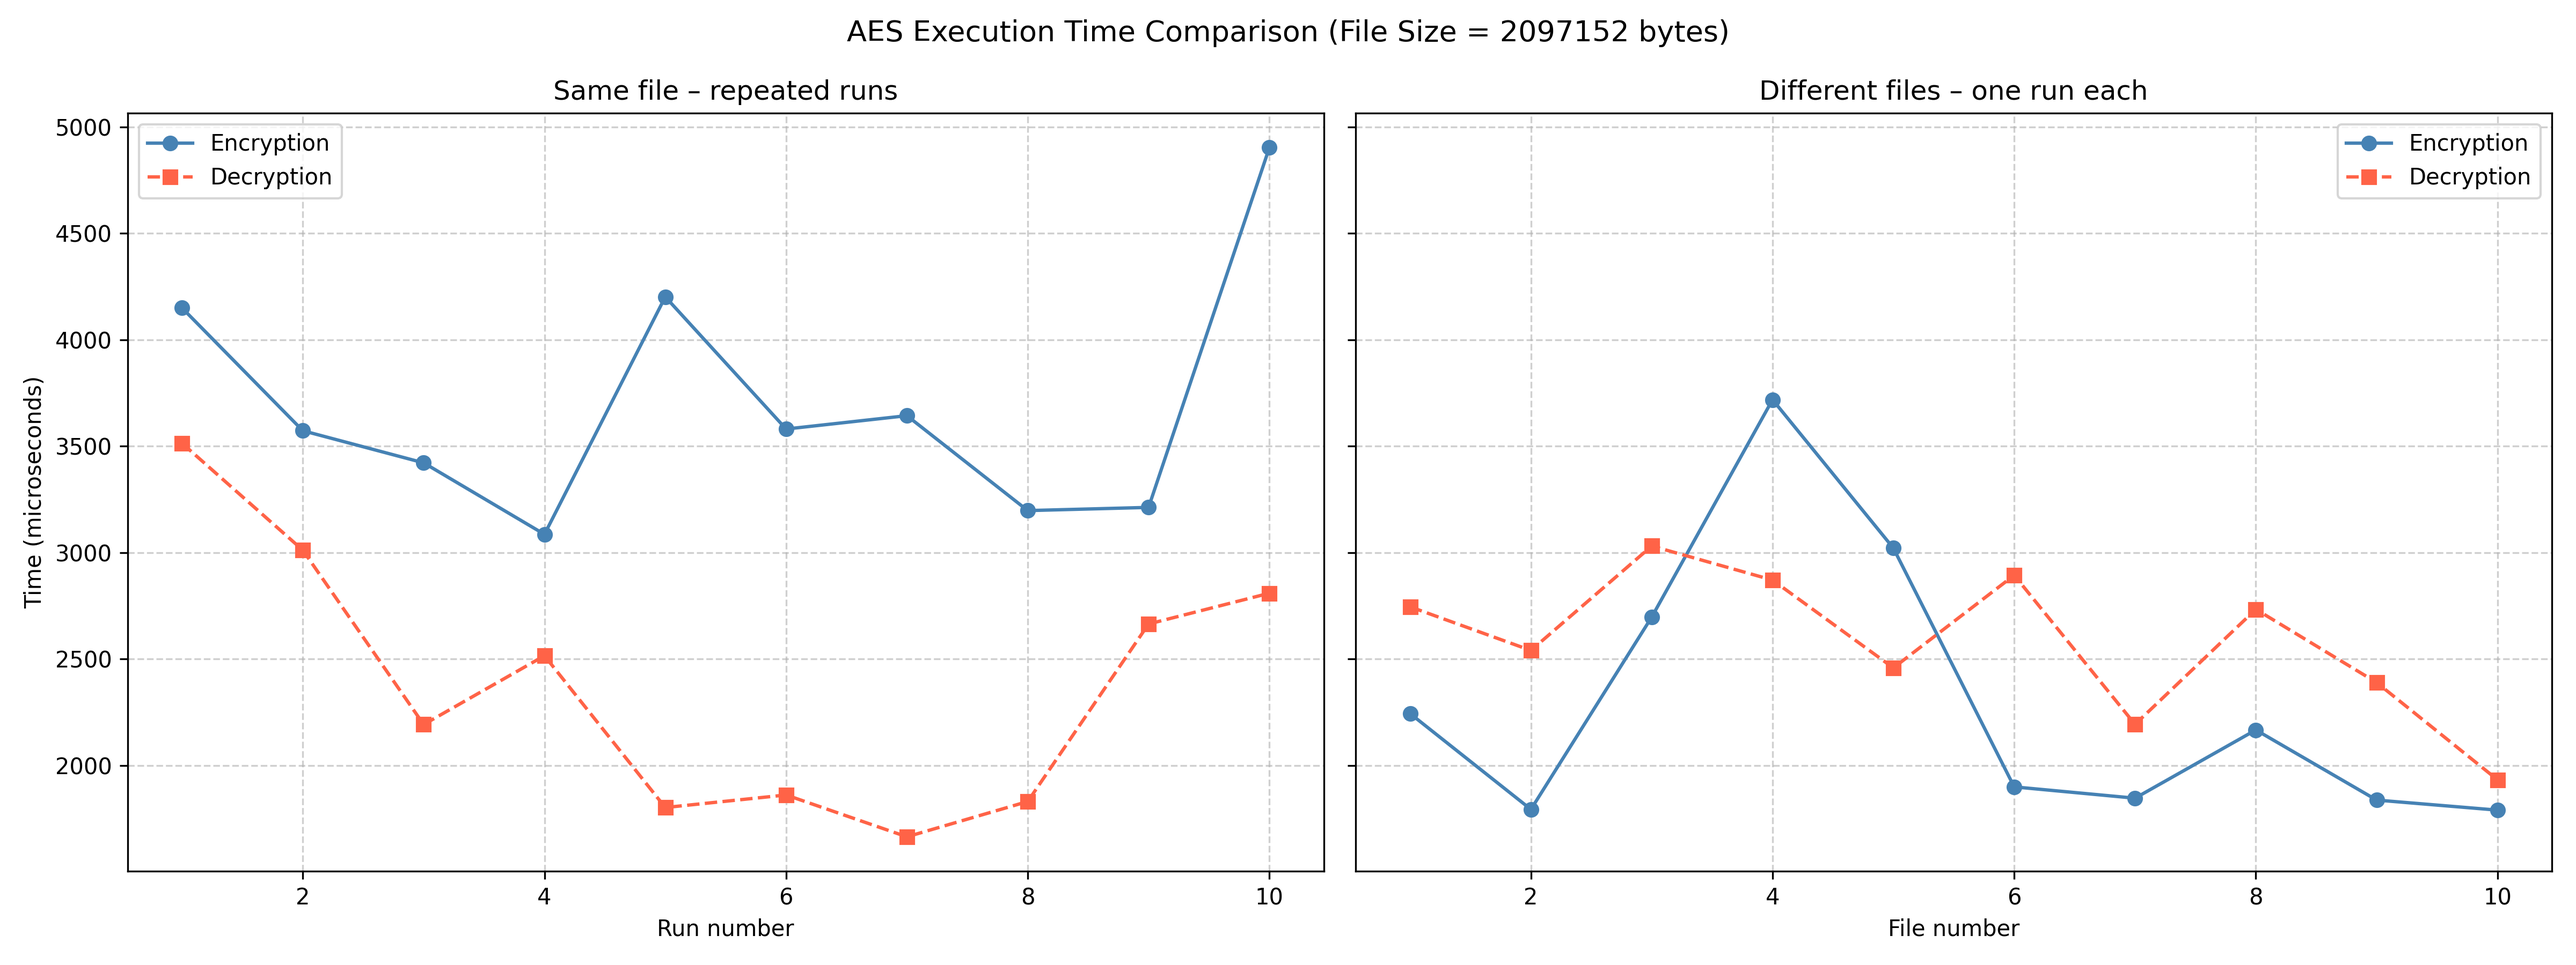
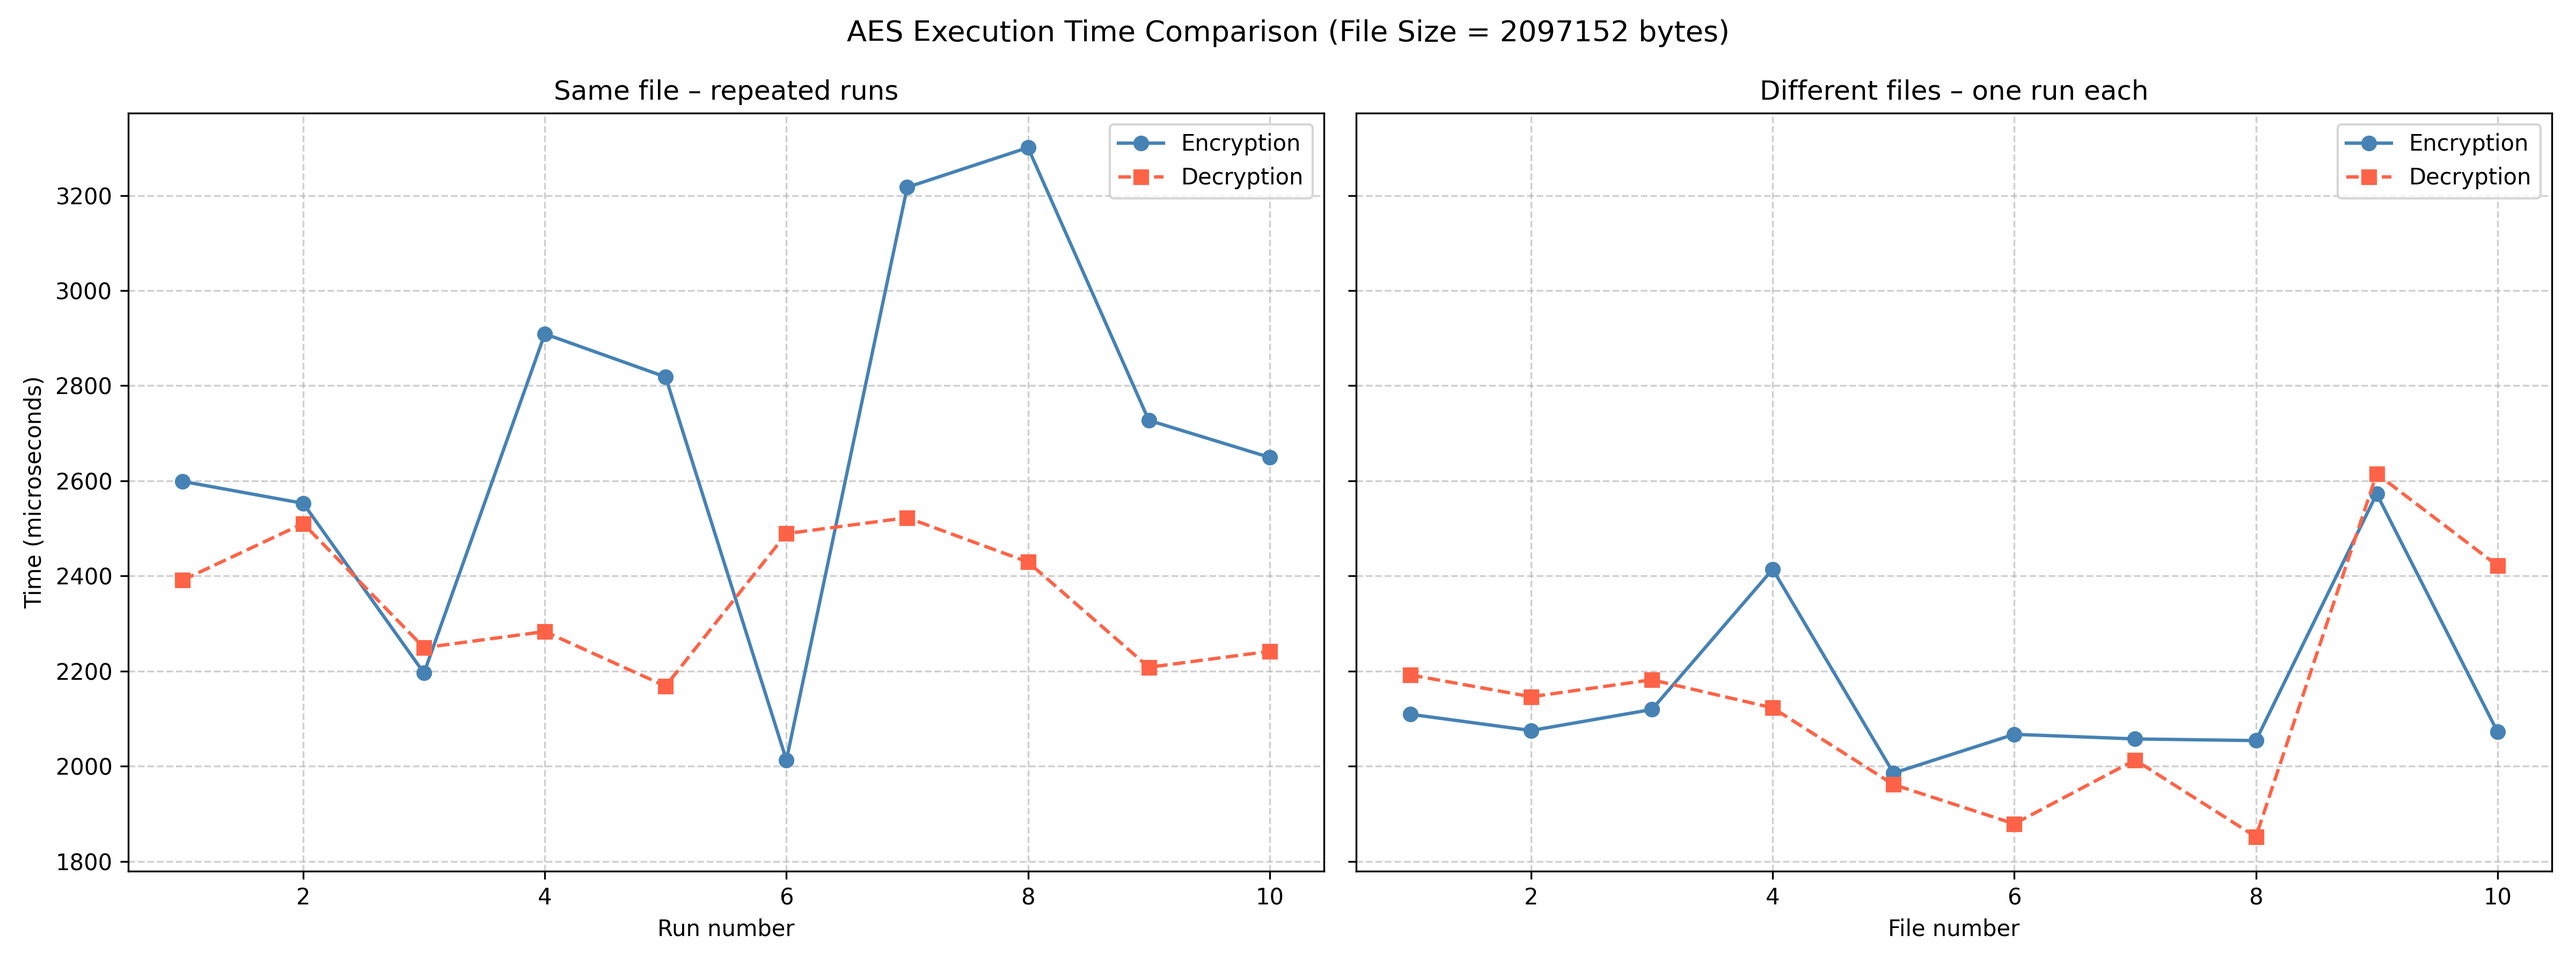
acabou de vez tau tau tau

diff --git a/aes.py b/aes.py
@@ -60,9 +60,9 @@ for s in sizes:
 
     # guarda nas listas para o gráfico a média e o desvio padrão
     aes_enc.append(statistics.mean(enc_times_us))
-    aes_dec.append(statistics.stdev(enc_times_us))
+    aes_encstd.append(statistics.stdev(enc_times_us))
 
-    aes_encstd.append(statistics.mean(dec_times_us))
+    aes_dec.append(statistics.mean(dec_times_us))
     aes_decstd.append(statistics.stdev(dec_times_us))
 
 for i in range(1, 11):
@@ -134,3 +134,6 @@ def plot_same_vs_diff_files():
     plt.savefig("plots/aes_same_vs_diff_files.png", dpi=300)
     plt.show()
 
+run_aes()
+plot_aes()
+plot_same_vs_diff_files()
